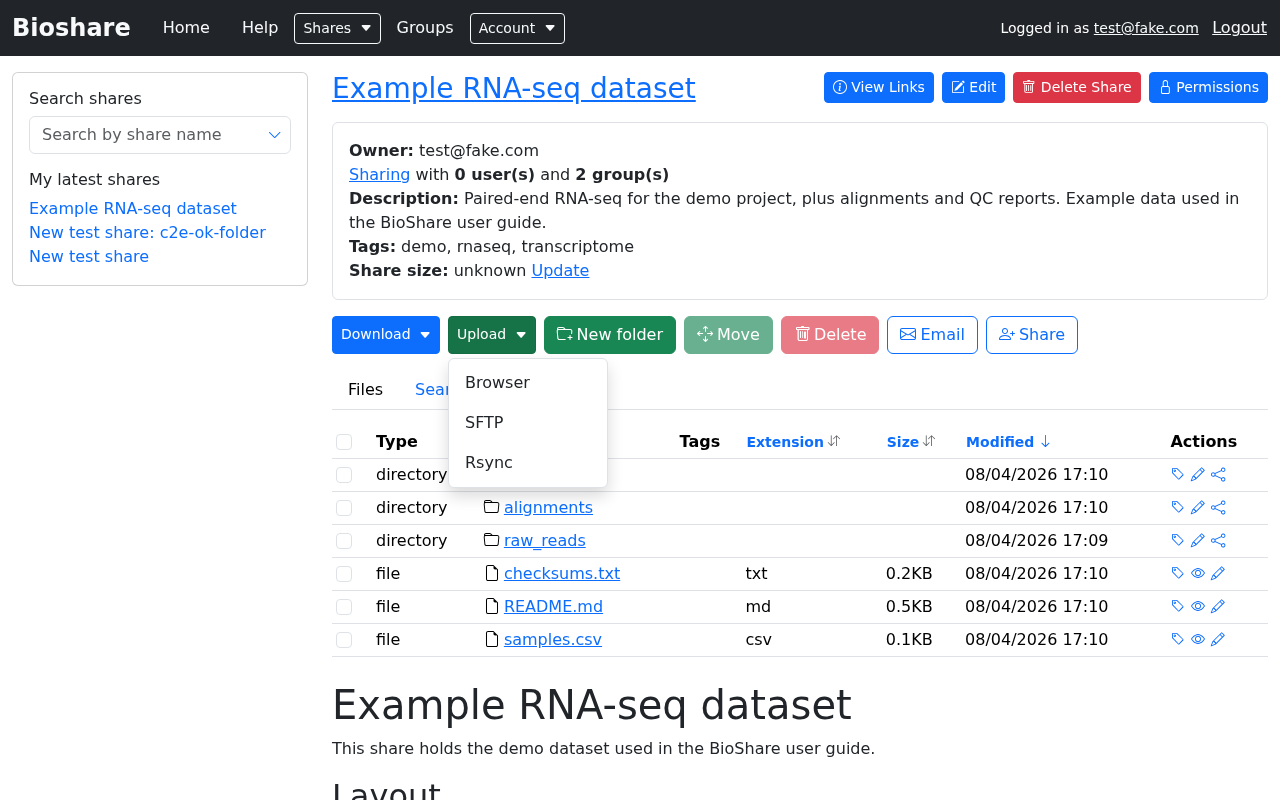
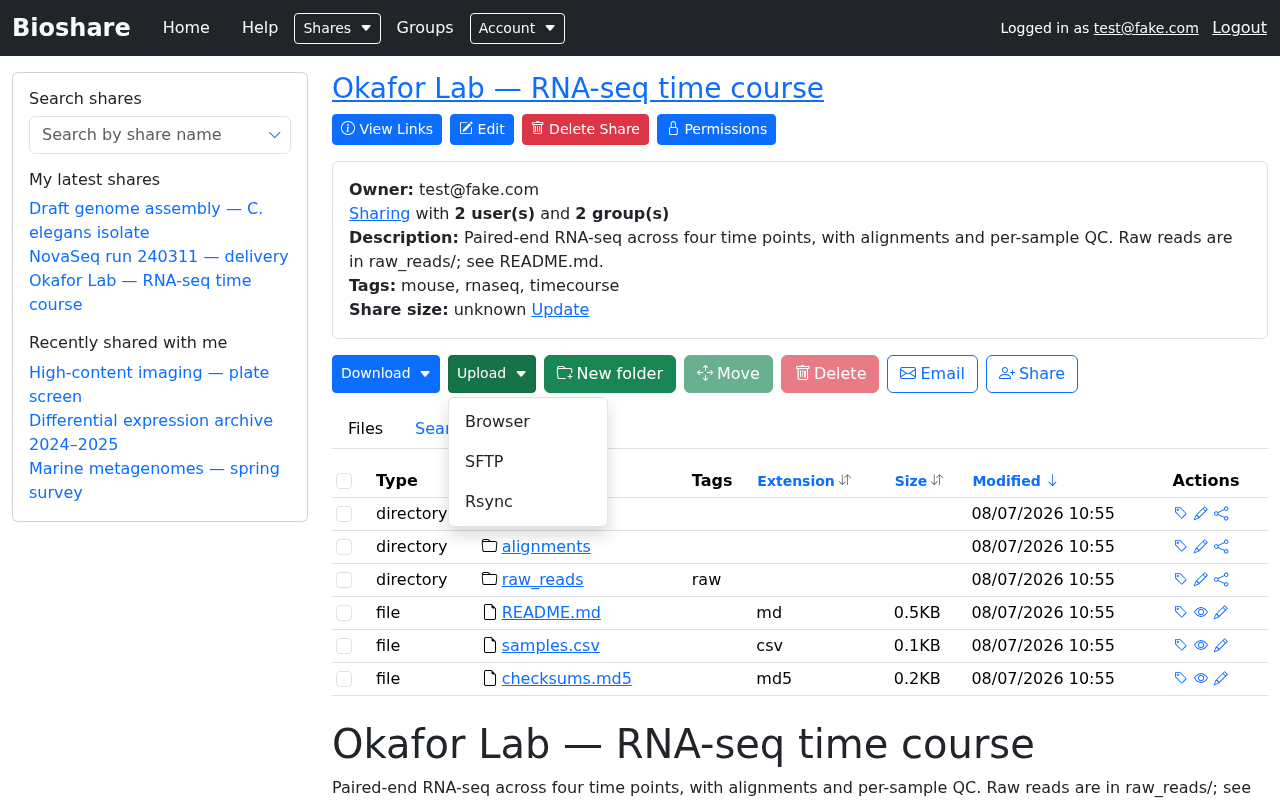
Recapture screenshots against seeded data; correct prose it disproved
All 11 screens now show the seeded dataset: real share names, descriptions and
tags, both sidebar sections populated, a permissions grid with two users and two
groups at different levels, a populated activity log, and an SSH key listed.

Fixes found by running against real data:

- the permissions route is ^permissions/(?P<share>[\da-zA-Z]{15})/?$ and 404s on
  a slug, while /view/ accepts either. capture.js now resolves the raw share id
  from list.html's #list-init blob and uses it where the id is required.
- capturing too fast trips the API rate limiter, which paints a red toast across
  the header. That is now a recognised bad-page marker and the default pause is
  5s. The toast is detected rather than hidden with CSS: it means the page
  really did fail, so the fix is to slow down, not to photograph it with the
  evidence removed.

Prose corrections, all from what the screenshots showed:

- Actions differ by row type -- Preview is files-only, Create subshare is
  folders-only -- now a table rather than one undifferentiated list
- search supports "*" to skip characters, which the in-page hints document and
  I had missed; the result cap is confirmed at MAX_SEARCH_RESULTS (50) in
  api/views.search_share
- the activity log has Timestamp/Action/User/Text/Paths columns and is sortable
  and filterable
- the email dialog pre-fills subject and body with a link to the share
- users and groups are distinguished by icon in the permissions grid
[…]

diff --git a/tools/screenshots/capture.js b/tools/screenshots/capture.js
@@ -25,7 +25,7 @@ const OUT = path.resolve(__dirname, '..', '..', 'docs', 'images', 'screenshots')
 
 // Delay between screens. Several BioShare views are rate limited, and a tight
 // loop gets later screens served the throttle page instead of content.
-const PAUSE_MS = Number(process.env.BIOSHARE_CAPTURE_PAUSE_MS || 2500);
+const PAUSE_MS = Number(process.env.BIOSHARE_CAPTURE_PAUSE_MS || 5000);
 
 // Slug of the share to feature. `manage.py seed_docs_demo` creates it; when it is
 // absent the script falls back to whichever healthy share has the most rows.
@@ -87,8 +87,11 @@ const SCREENS = [
         },
     },
     {
+        // Note this uses the raw id, not the slug: the permissions route is
+        // ^permissions/(?P<share>[\da-zA-Z]{15})/?$ and will 404 on a slug,
+        // whereas /view/ accepts either.
         name: 'permissions',
-        url: (ctx) => `/bioshare/permissions/${ctx.shareId}/`,
+        url: (ctx) => `/bioshare/permissions/${ctx.shareRawId}/`,
         waitFor: 'table, form',
     },
     {
@@ -139,6 +142,12 @@ async function settle(page, waitFor) {
 // page -- silently, which is precisely the rot this pipeline exists to avoid.
 const BAD_PAGE_MARKERS = [
     'your request has been throttled',
+    // The in-app toast, which is not a whole error page: capturing too quickly
+    // trips the API rate limiter and leaves a red banner across the header. It
+    // is deliberately detected rather than hidden with CSS -- a toast means the
+    // page really did fail, so the right response is to slow down and re-run,
+    // not to photograph it with the evidence removed.
+    'Rate limit exceeded',
     'Unable to locate the files',
     "You don't have permission",
     'Page not found',
@@ -205,6 +214,22 @@ async function discoverShareId(page) {
     return best.id;
 }
 
+// Resolve the share's raw 15-character id. When a share has a friendly URL the
+// listing links use the slug, but some routes (notably permissions/) only match
+// the id. list.html hands the id to the page in its #list-init JSON blob.
+async function rawShareId(page, slugOrId) {
+    if (/^[0-9a-zA-Z]{15}$/.test(slugOrId)) return slugOrId;
+    await page.goto(`${BASE}/bioshare/view/${slugOrId}/`, { waitUntil: 'networkidle' });
+    await settle(page, 'table');
+    const id = await page
+        .$eval('#list-init', (el) => JSON.parse(el.textContent).share)
+        .catch(() => null);
+    if (!id) {
+        throw new Error(`Could not resolve the raw share id for "${slugOrId}"`);
+    }
+    return id;
+}
+
 (async () => {
     fs.mkdirSync(OUT, { recursive: true });
 
@@ -230,8 +255,9 @@ async function discoverShareId(page) {
     const failures = [];
 
     try {
-        const ctx = { shareId: await discoverShareId(page) };
-        console.log(`Using share ${ctx.shareId}\n`);
+        const shareId = await discoverShareId(page);
+        const ctx = { shareId, shareRawId: await rawShareId(page, shareId) };
+        console.log(`Using share ${ctx.shareId} (id ${ctx.shareRawId})\n`);
 
         for (const screen of SCREENS) {
             const url = BASE + screen.url(ctx);

diff --git a/bioshareX/management/commands/seed_docs_demo.py b/bioshareX/management/commands/seed_docs_demo.py
@@ -120,6 +120,10 @@ class Command(BaseCommand):
             )
             for member in members:
                 users[member].groups.add(group)
+            # The Groups page lists only the groups the signed-in account belongs
+            # to, so without this the seeded groups exist but are invisible to the
+            # account the screenshots are taken with.
+            docs_user.groups.add(group)
             groups[name] = group
             self.stdout.write(f'  {"+" if created else "="} group {name}')
         return groups
@@ -161,6 +165,15 @@ class Command(BaseCommand):
             self._write_files(share, spec['layout'])
             self._assign_permissions(share, spec, users, groups, docs_user)
             self._create_metadata(share, spec)
+            # Without this the Size column on the home page reads "-" for every
+            # row: sizes come from ShareStats, which is only populated on demand
+            # (the "Update" link) or by a scheduled job.
+            try:
+                share.get_stats()
+            except Exception as exc:  # pragma: no cover - depends on the filesystem
+                self.stdout.write(self.style.WARNING(
+                    f'    ! could not compute stats for {share.id}: {exc}'
+                ))
 
             shares[spec['slug']] = share
             self.stdout.write(

diff --git a/docs/browsing-shares.md b/docs/browsing-shares.md
@@ -62,15 +62,15 @@ ticked:
 
 ## Actions on a single file
 
-The **Actions** column at the right of each row offers:
+The **Actions** column at the right of each row offers a few icons, and which ones
+appear depends on whether the row is a file or a folder:
 
-- **Add or edit metadata** — attach notes and comma-separated tags to that
-  specific file or folder. Tags added here are searchable.
-- **Preview** — view a file's contents in the browser without downloading it.
-  Useful for checking a small text, CSV or report file.
-- **Rename** — change the name, subject to the same naming restrictions above.
-- **Create subshare** *(folders, share owner only)* — turn a folder into a share
-  in its own right. See [Subshares](creating-shares.md#subshares).
+| Action | Files | Folders |
+|---|---|---|
+| **Add or edit metadata** — attach notes and comma-separated tags to that entry. Tags appear in the Tags column and are searchable | ✓ | ✓ |
+| **Rename** — change the name, subject to the naming restrictions above | ✓ | ✓ |
+| **Preview** — view the contents in the browser without downloading. Useful for a small text, CSV or report file | ✓ | |
+| **Create subshare** *(share owner only)* — turn the folder into a share in its own right. See [Subshares](creating-shares.md#subshares) | | ✓ |
 
 ### Checksums
 
@@ -86,9 +86,21 @@ shares.
 ![Searching within a share](images/screenshots/share-search.png)
 
 Enter part of a filename to see matching files anywhere in the share, including
-inside subfolders. Search is case-insensitive by default, needs at least two
-characters, and returns a capped number of results — narrow your term if you do not
-see what you expected. **Match case** makes the search case-sensitive.
+inside subfolders. The rules are listed above the box, and are worth knowing:
+
+- **Any part of the name matches** — searching `fastq` finds `S01_L001_R1.fastq.gz`.
+  There is no need to add wildcards around your term.
+- **`*` skips characters** within the term, so `sample*.fastq` matches
+  `sample01_R1.fastq` but not `other_sample.fastq`.
+- **At least two characters** are required. Shorter queries would match most of a
+  share and are rejected rather than served slowly.
+- **Case is ignored** unless you tick **Match case**.
+
+Results are capped (50 by default), and you are told when there are more. If what
+you want is not listed, make the term more specific rather than scrolling.
+
+Folders and files are both returned; clicking a folder opens it, clicking a file
+downloads it.
 
 ## Activity log
 

diff --git a/docs/managing-shares.md b/docs/managing-shares.md
@@ -29,7 +29,12 @@ The **Logs** tab records what has happened to the share.
 
 ![The share activity log](images/screenshots/share-logs.png)
 
-Logged events include files being added, folders created, entries renamed, moved or
+Each entry records a **Timestamp**, the **Action**, the **User** responsible, free
+text describing what happened, and the **Paths** affected. Sort by clicking a
+column header, and narrow a busy log with the filter boxes — filtering on Paths is
+the quickest way to answer "what happened to this folder?".
+
+Logged actions include files being added, folders created, entries renamed, moved or
 deleted, symbolic links created or removed, rsync transfers, permission changes,
 emails sent to participants, and errors.
 
@@ -43,11 +48,19 @@ Two things this answers well:
 ## Emailing participants
 
 **Email** opens a dialog for messaging the people who have access to the share.
-Choose **All participants**, or **Choose specific recipients** to pick individuals,
-then supply a subject and body. This is the tidy way to say "the data is ready" or
-"I have added the second batch" without assembling an address list by hand.
 
-Messages sent this way are recorded in the activity log.
+![Emailing the people with access to a share](images/screenshots/email-participants.png)
+
+Choose **All participants**, or **Choose specific recipients** to pick individuals.
+The subject and body are pre-filled with the share's name and a direct link to it,
+so in the common case — "the data is ready" — you can send without typing anything.
+Edit the body freely; the link is just text.
+
+This is the tidy way to notify collaborators without assembling an address list by
+hand, and it guarantees the recipients are exactly the people who can actually open
+the share.
+
+Messages sent this way are recorded in the activity log as **User emailed**.
 
 ## Symbolic links
 

diff --git a/docs/permissions.md b/docs/permissions.md
@@ -51,7 +51,8 @@ boxes from there.
 
 ## What each permission allows
 
-Each row in the table is one user or group, and each column is one permission:
+Each row in the table is one user or group — the icon beside the name distinguishes
+them — and each column is one permission:
 
 | Column | What it allows |
 |---|---|
